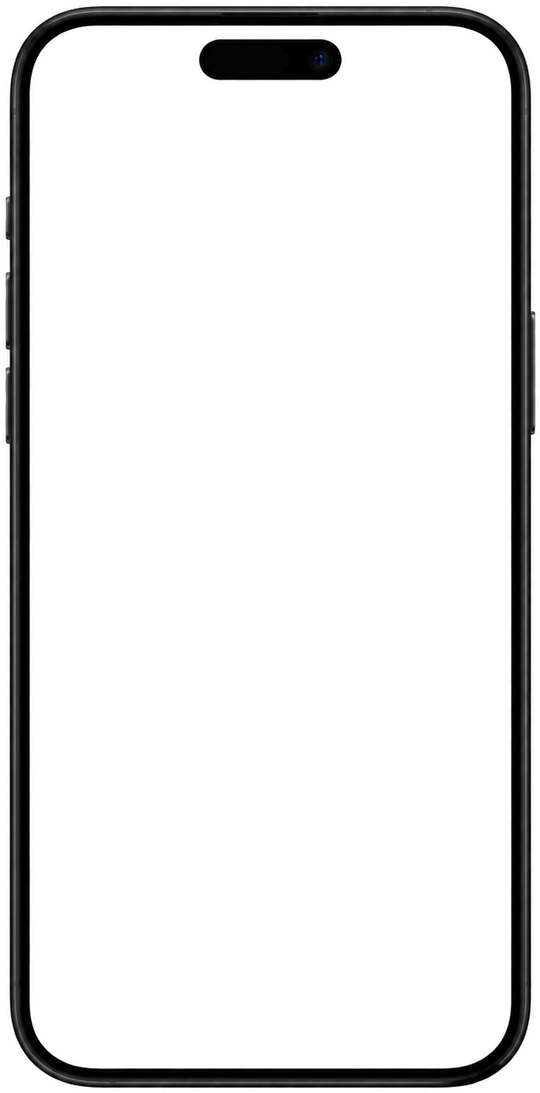
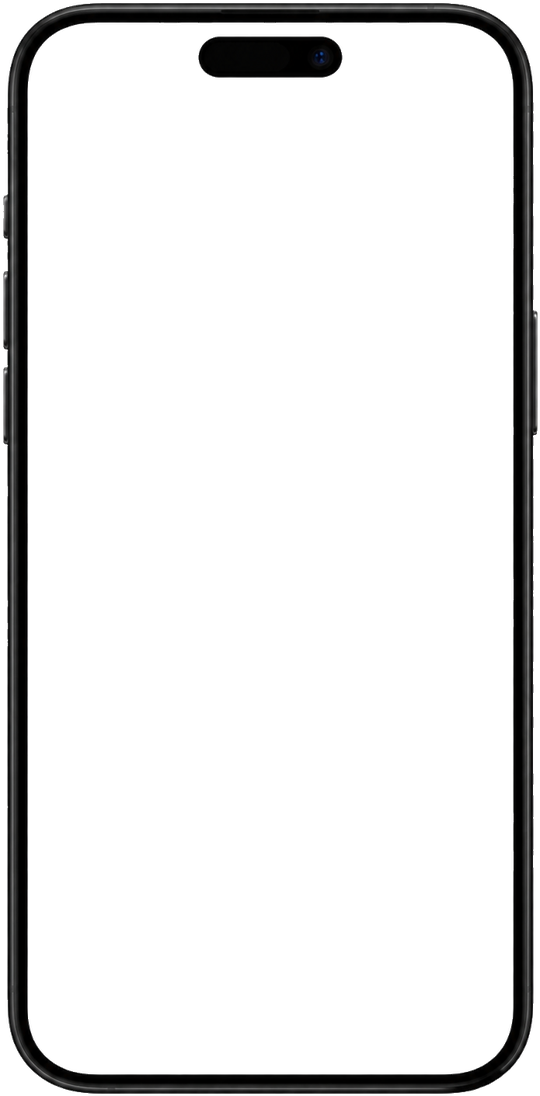
Vista360 Player: corrige el anillo blanco residual en el marco del celular (transparencia mal extraida cerca del borde de la pantalla); ahora la foto llega hasta el bisel negro

Changed region(s): [[0.0, 0.0, 1.0, 1.0]]

diff --git a/index-home.html b/index-home.html
@@ -172,9 +172,9 @@
   @media (min-width:900px){ .v360p-grid { grid-template-columns:minmax(260px,400px) 1fr; } }
   .v360p-phonewrap { display:flex; align-items:center; justify-content:center; gap:clamp(10px,2vw,28px); }
   .v360p-chevron { flex-shrink:0; color:#1C6FE8; opacity:0.5; }
-  .v360p-frame { position:relative; width:clamp(220px,28vw,260px); aspect-ratio:540/1093; }
+  .v360p-frame { position:relative; width:clamp(220px,28vw,260px); aspect-ratio:540/1096; }
   .v360p-frame__img { position:absolute; inset:0; z-index:3; width:100%; height:100%; pointer-events:none; display:block; }
-  .v360p-screen { position:absolute; top:2.6%; right:5.99%; bottom:2.5%; left:5.99%; z-index:1; border-radius:clamp(16px,9%,28px); overflow:hidden; background:#070B14; }
+  .v360p-screen { position:absolute; top:2.34%; right:5.61%; bottom:2.27%; left:5.61%; z-index:1; border-radius:clamp(16px,9%,28px); overflow:hidden; background:#070B14; }
   .v360p-screen__bg { position:absolute; inset:0; background-image:linear-gradient(180deg, rgba(6,10,20,0.5) 0%, rgba(6,10,20,0.3) 38%, rgba(6,10,20,0.94) 100%), url('panels/skyline-night.jpg'); background-size:cover; background-position:center 60%; }
   .v360p-statusbar { position:relative; z-index:2; display:flex; align-items:center; justify-content:space-between; padding:16px 18px 0; font-size:12px; font-weight:600; color:rgba(255,255,255,0.85); }
   .v360p-statusicons { display:flex; align-items:center; gap:4px; color:rgba(255,255,255,0.85); }